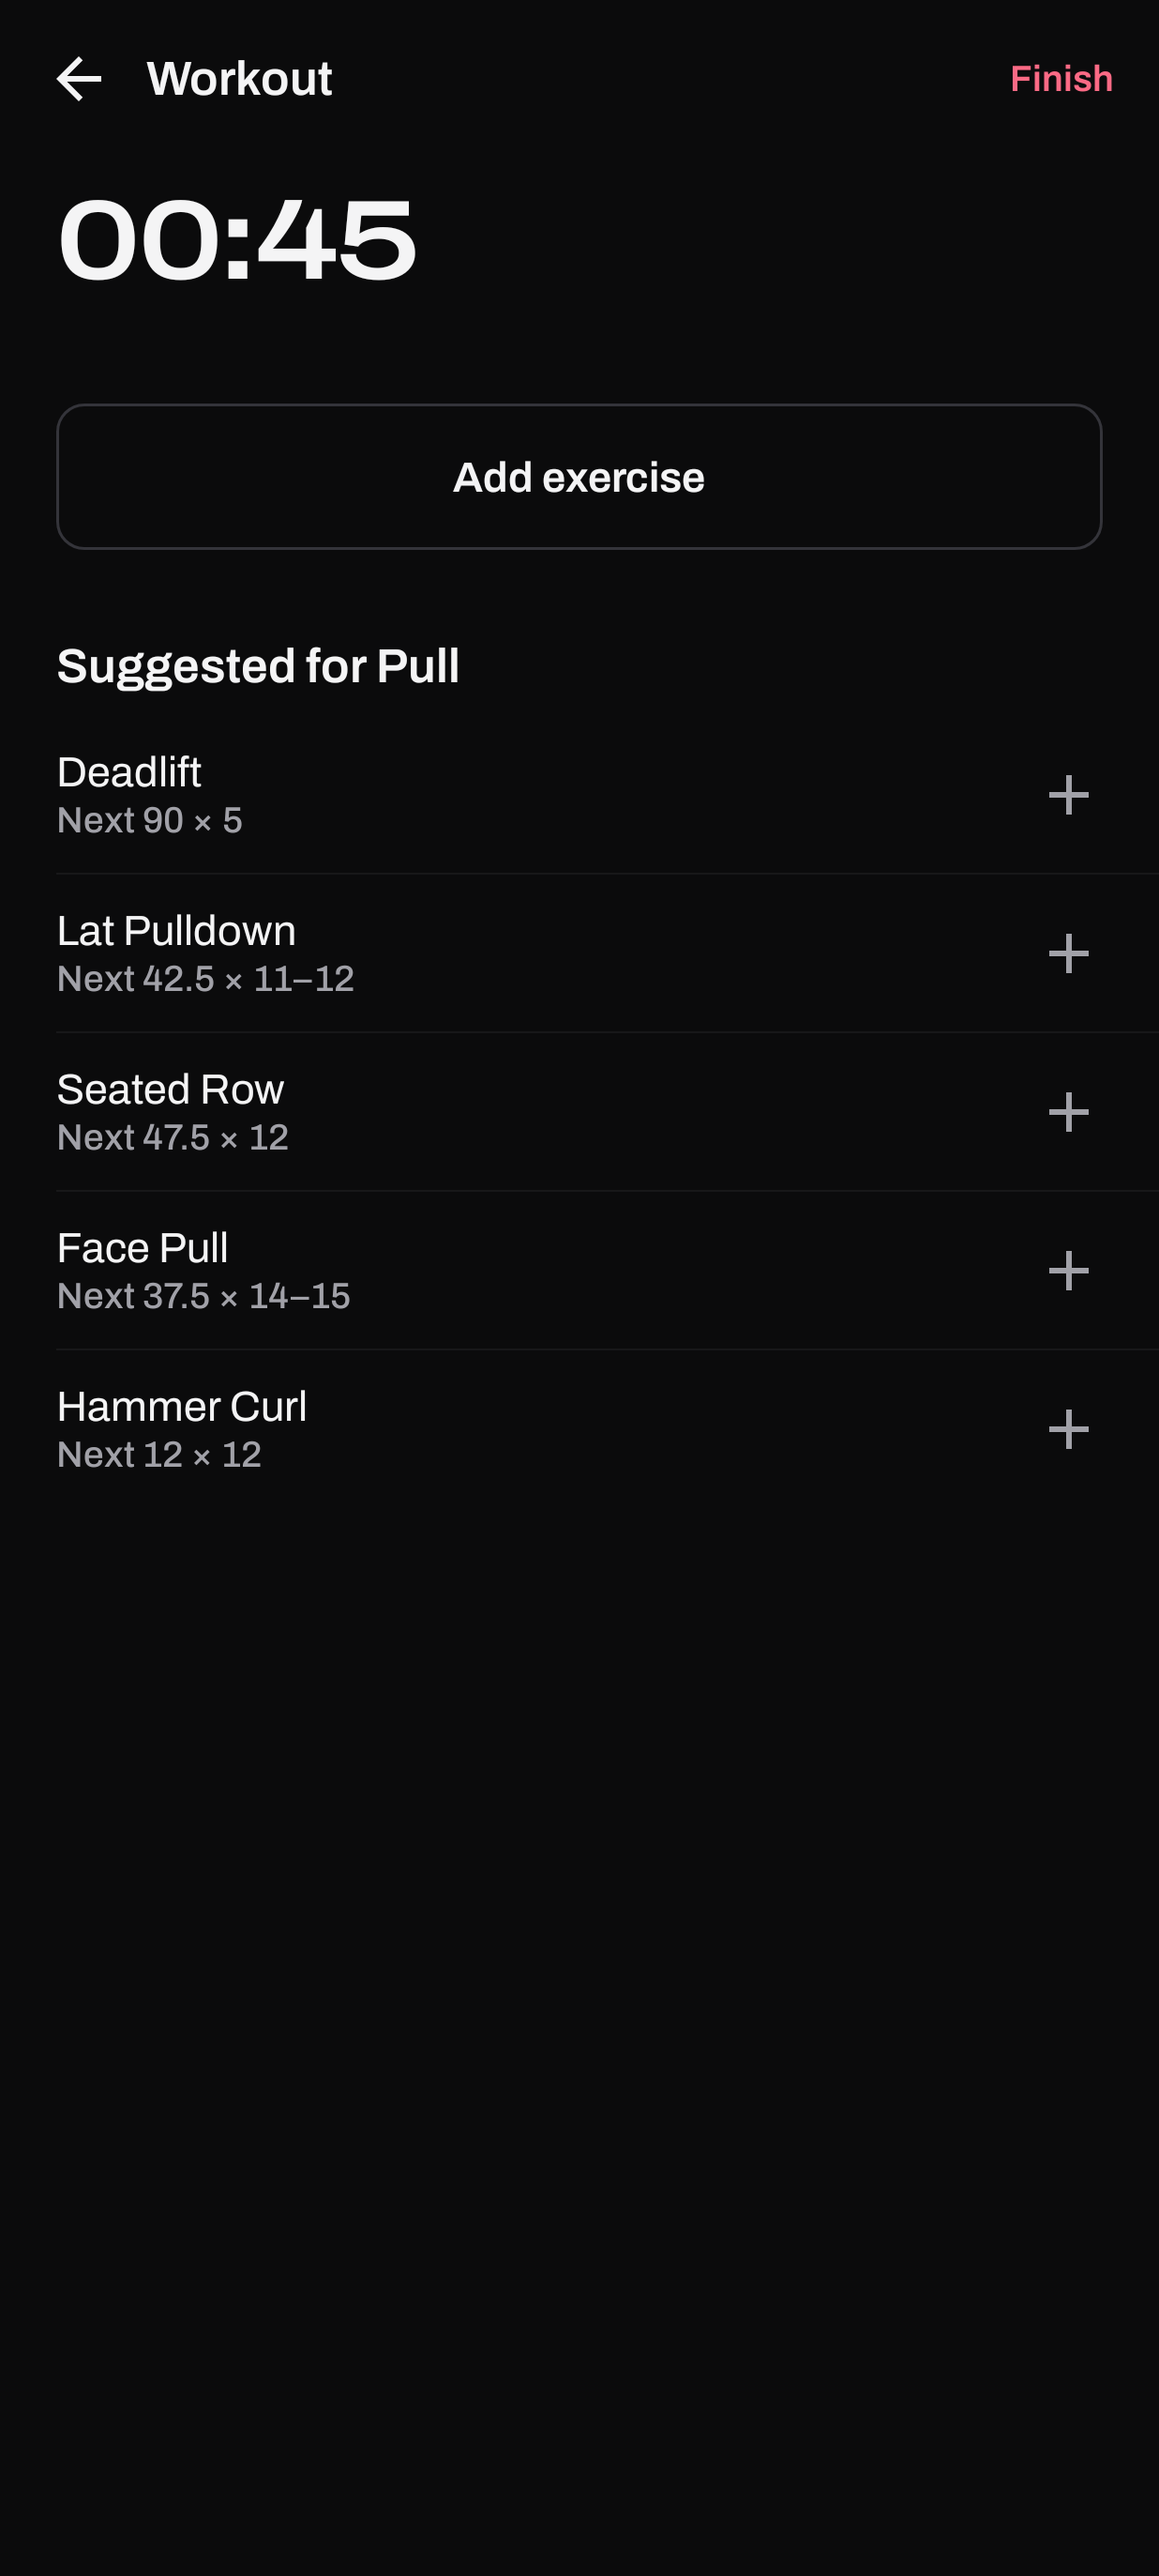
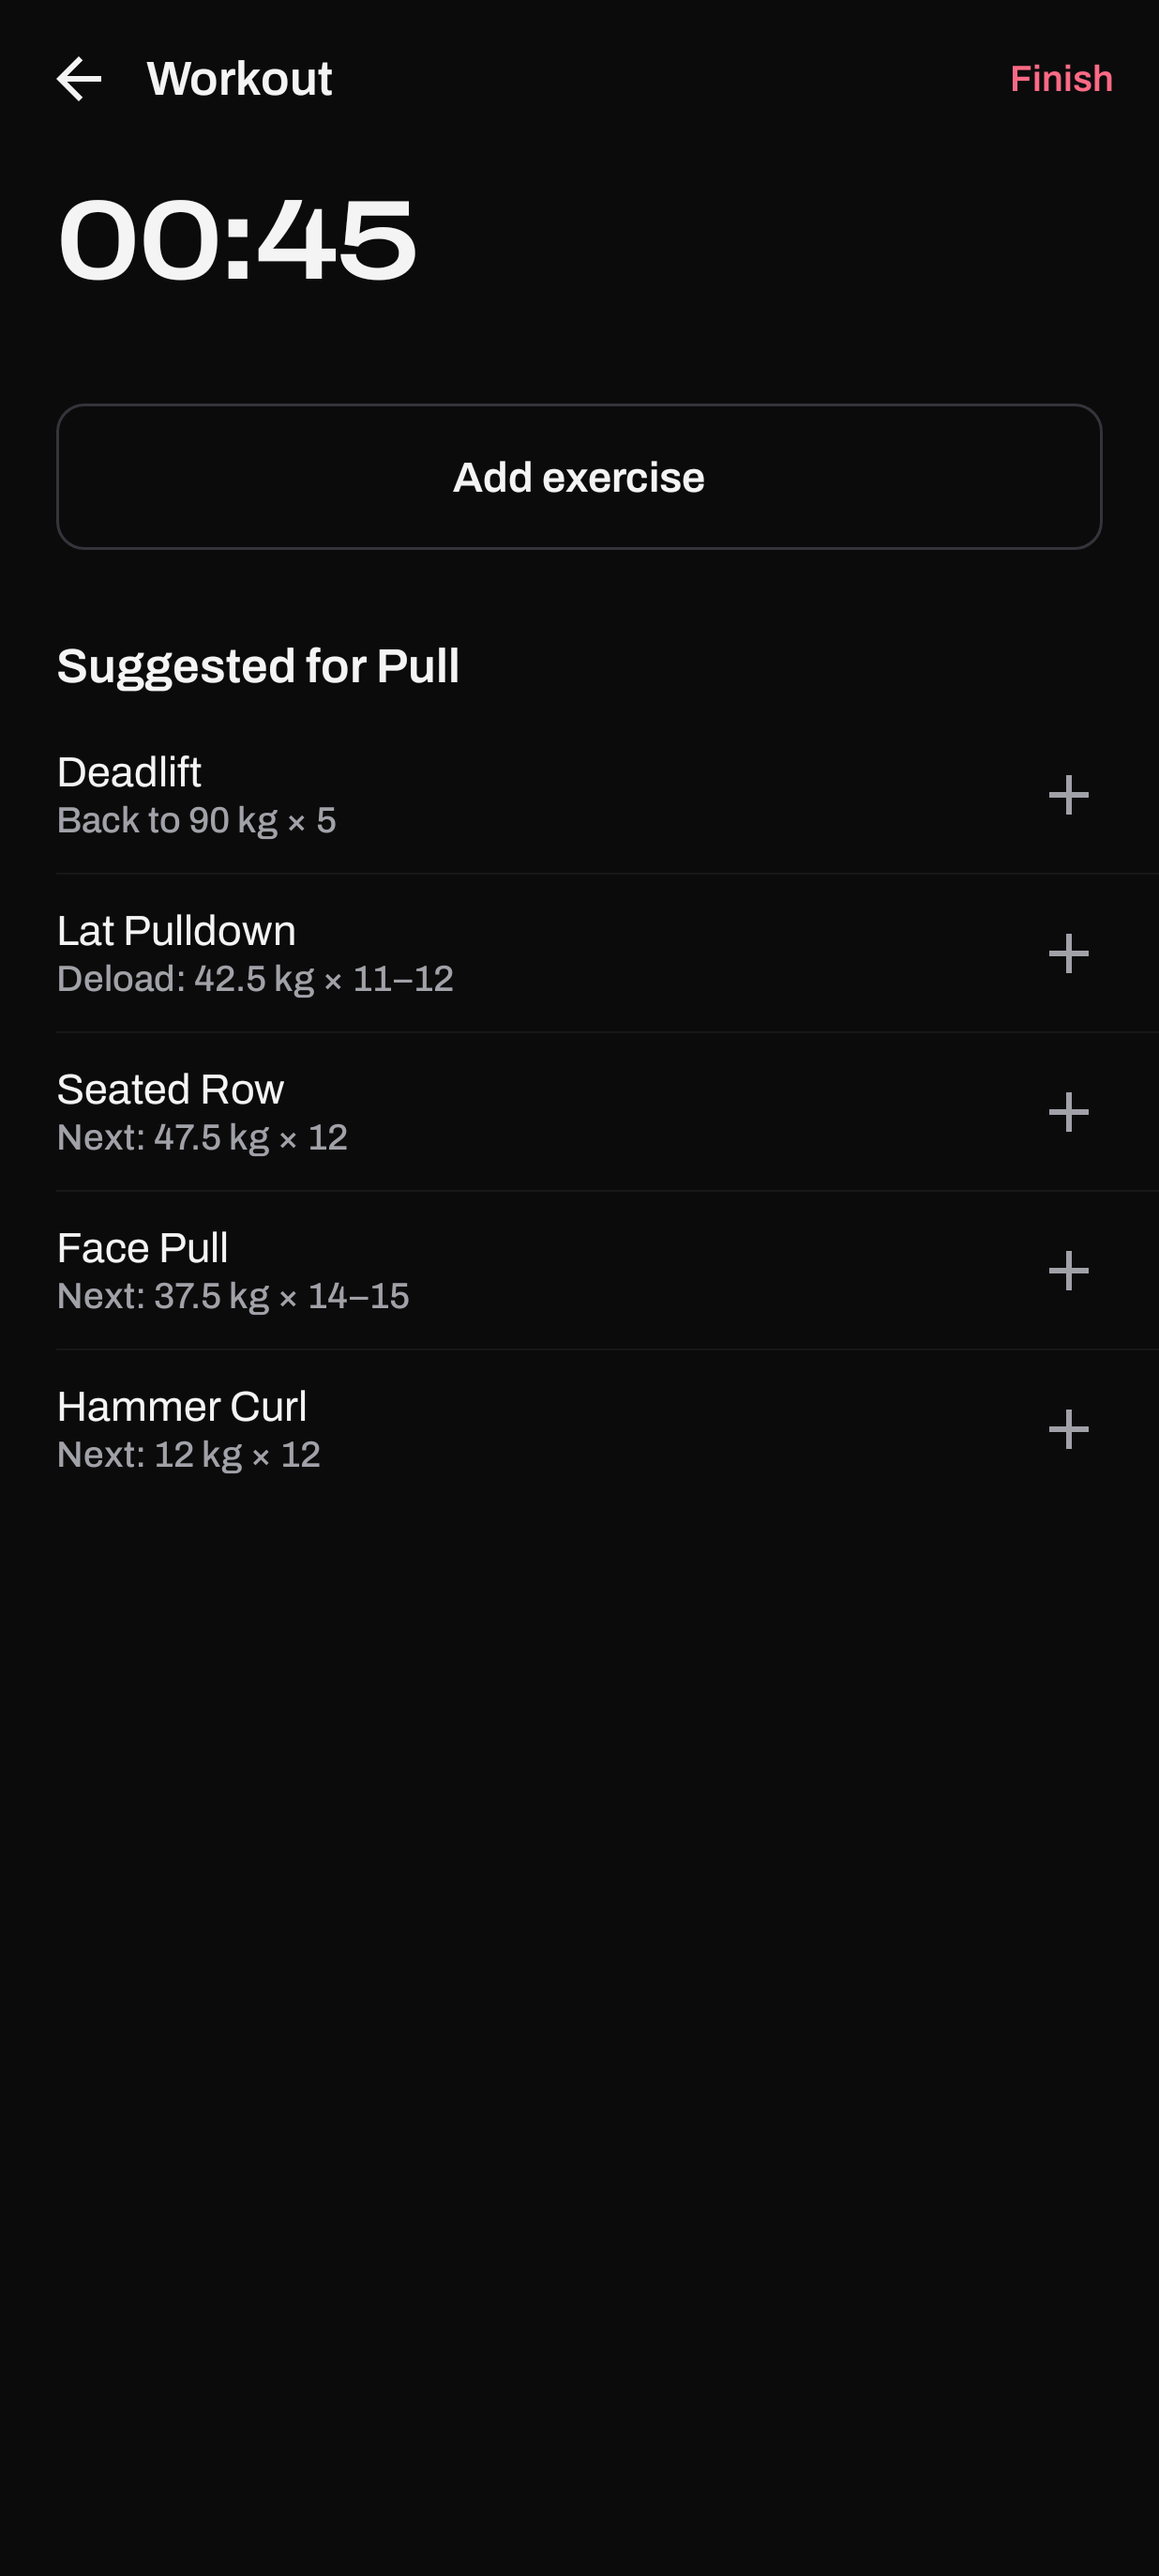
Parity report and final critique pass
- Parity 99.7 (34/34 must-haves); verdict shippable, pending the
  device-only checks
- One shared next-action wording (InsightPresenter.nextAction) on Home,
  Progress and the workout's Up next list
- Exercise detail "heaviest" shows the best set at that weight
- History rest lines only for breaks of 2+ days
- "All insights" link renamed to "Progress"
- Feature matrix: deliberate removals marked skip with reasons;
  lifetime stats honestly partial; CSV quoting fixed

diff --git a/app/src/main/java/com/example/gymdiary3/presentation/insight/InsightPresenter.kt b/app/src/main/java/com/example/gymdiary3/presentation/insight/InsightPresenter.kt
@@ -29,15 +29,26 @@ object InsightPresenter {
     /** Only exercises trained this recently produce insights. */
     const val RECENT_DAYS = 21
 
+    /**
+     * What to do next session, worded the same on every screen: "Next: 50 kg × 8",
+     * "Deload: 42.5 kg × 11–12", "Back to 90 kg × 5". Always a set the lifter can
+     * perform, never an instruction to calculate.
+     */
+    fun nextAction(p: ExerciseProgression, unit: String): String? {
+        val c = p.latest ?: return null
+        val rec = p.recommendation ?: return null
+        val target = if (rec.weightKg > 0) "${Fmt.weightUnit(rec.weightKg, unit)} × ${rec.repsLabel}" else "${rec.repsLabel} reps"
+        return when {
+            p.status == ProgressionStatus.REGRESSING -> "Back to $target"
+            p.status == ProgressionStatus.STALLING && rec.weightKg > 0 && rec.weightKg < c.topWeight -> "Deload: $target"
+            else -> "Next: $target"
+        }
+    }
+
     fun fromProgression(p: ExerciseProgression, unit: String): InsightRow? {
         val c = p.latest ?: return null
         val b = p.previous
-        val rec = p.recommendation
-        // Every action is a set the lifter can perform, never an instruction to calculate.
-        val target = rec?.let {
-            if (it.weightKg > 0) "${Fmt.weightUnit(it.weightKg, unit)} × ${it.repsLabel}" else "${it.repsLabel} reps"
-        }
-        val next = target?.let { "Next: $it" }
+        val next = nextAction(p, unit)
         val w = Fmt.weightUnit(c.topWeight, unit)
         return when (p.status) {
             ProgressionStatus.NEW -> null
@@ -55,15 +66,13 @@ object InsightPresenter {
                 InsightRow(
                     "Stalling", Tone.WARNING, p.exercise,
                     "$w · ${sessions(p.streakAtWeight)}",
-                    if (rec != null && rec.weightKg > 0 && rec.weightKg < c.topWeight) "Deload: $target" else next,
-                    p.exercise, 80 + p.streakAtWeight
+                    next, p.exercise, 80 + p.streakAtWeight
                 )
             ProgressionStatus.REGRESSING ->
                 InsightRow(
                     "Regressing", Tone.DANGER, p.exercise,
                     if (b != null) "${Fmt.weight(b.topWeight, unit)} → $w" else w,
-                    target?.let { "Back to $it" },
-                    p.exercise, 75
+                    next, p.exercise, 75
                 )
         }
     }

diff --git a/app/src/main/java/com/example/gymdiary3/presentation/workout/WorkoutStates.kt b/app/src/main/java/com/example/gymdiary3/presentation/workout/WorkoutStates.kt
@@ -11,6 +11,7 @@ import com.example.gymdiary3.domain.progression.ProgressionStatus
 import com.example.gymdiary3.domain.recovery.RecoveryEngine
 import com.example.gymdiary3.presentation.common.TrainingCalendar
 import com.example.gymdiary3.presentation.format.Fmt
+import com.example.gymdiary3.presentation.insight.InsightPresenter
 
 /* ======================================================= active workout */
 
@@ -71,12 +72,9 @@ object ActiveWorkoutStateBuilder {
                 .take(MAX_UP_NEXT)
                 .map { (name, muscle) ->
                     val p = ProgressionEngine.analyze(name, historySets.filter { it.exercise == name }, unit)
-                    val rec = p.recommendation
-                    val detail = when {
-                        rec != null && rec.weightKg > 0 -> "Next ${Fmt.weight(rec.weightKg, unit)} × ${rec.repsLabel}"
-                        p.latest != null -> "Last ${Fmt.set(p.latest!!.topWeight, p.latest!!.topReps, unit)}"
-                        else -> muscle
-                    }
+                    val detail = InsightPresenter.nextAction(p, unit)
+                        ?: p.latest?.let { "Last ${Fmt.set(it.topWeight, it.topReps, unit)}" }
+                        ?: muscle
                     UpNextRow(name, muscle, detail)
                 }
         }

diff --git a/app/src/main/java/com/example/gymdiary3/presentation/exercise/ExerciseDetailState.kt b/app/src/main/java/com/example/gymdiary3/presentation/exercise/ExerciseDetailState.kt
@@ -55,7 +55,8 @@ object ExerciseDetailStateBuilder {
 
     fun build(exercise: String, sets: List<WorkoutSet>, unit: String, now: Long): ExerciseDetailUiState {
         val p = ProgressionEngine.analyze(exercise, sets, unit)
-        val heaviest = p.sessions.maxByOrNull { it.topWeight }
+        // The best set at the heaviest weight (47.5 × 9), not the first time it was lifted (47.5 × 6).
+        val heaviest = p.sessions.maxWithOrNull(compareBy({ it.topWeight }, { it.topReps }))
         val latest = p.latest
         val dateFmt = SimpleDateFormat("MMM d", Locale.getDefault())
 

diff --git a/app/src/main/java/com/example/gymdiary3/presentation/history/HistoryState.kt b/app/src/main/java/com/example/gymdiary3/presentation/history/HistoryState.kt
@@ -72,7 +72,8 @@ object HistoryStateBuilder {
                 val older = list.getOrNull(i + 1)
                 if (older != null) {
                     val gap = TrainingCalendar.daysBetween(older.session.startTime, s.session.startTime) - 1
-                    if (gap >= 1) entries += RestEntry(gap, s.session.id)
+                    // One rest day is the normal rhythm; only a longer break earns a line.
+                    if (gap >= 2) entries += RestEntry(gap, s.session.id)
                 }
             }
             val volume = list.sumOf { it.totalVolume }

diff --git a/app/src/main/java/com/example/gymdiary3/screens/HomeScreen.kt b/app/src/main/java/com/example/gymdiary3/screens/HomeScreen.kt
@@ -119,7 +119,7 @@ fun HomeScreen(
 
             state.insight?.let { insight ->
                 item(key = "insight") {
-                    SectionHeader("Worth knowing", action = "All insights", onAction = actions.onAllInsights)
+                    SectionHeader("Worth knowing", action = "Progress", onAction = actions.onAllInsights)
                     InsightItem(insight, onClick = { actions.onOpenInsight(insight) })
                 }
             }

diff --git a/replica/parity.md b/replica/parity.md
@@ -1,0 +1,72 @@
+# Parity — Gym Diary v2 against v1
+
+Date: 2026-10-04. "The original" here is Gym Diary v1, the same app before this redesign. The question is: can a user still do everything they could, and is each flow at least as good?
+
+## Verdict: shippable
+
+- All 34 must-haves done. Feature score **99.7** (97.7 if the three deliberately removed motion effects count as missing).
+- No open S1 or S2 bugs (`bugs.md`: 8 found, all fixed or mitigated).
+- 163 JVM tests green.
+- **The caveat that matters**: no device was available. The 7 device-only checks in `test-plan.md` (share sheet, file picker, haptics, TalkBack, system insets) have **not** been run. Until they are, "shippable" means shippable on the evidence a JVM can give.
+
+Not "better than the original" by the skill's definition, which requires replica-entrepreneur's fixes from user reviews. That step wasn't run; the improvement agenda came from your own brief.
+
+## Feature parity
+
+| | |
+| --- | --- |
+| Score | 99.7 / 100 (60 features counted) |
+| Must-haves | 34 of 34 |
+| Weakest area | home 96.4: lifetime volume dropped (workout count kept as the History header) |
+| Removed on purpose, not scored | ambient animated background, confetti, staggered list entrances (the brief rules out decorative motion) |
+| Added in v2, not scored | 20 features: progression status, labelled charts with ranges, tap-to-inspect, recovery + today's recommendation, month timeline, PR list, active workout screen, rest ±15 s, tablet width cap, … |
+
+Full machine output: `python parity.py replica/features.csv --markdown`.
+
+## Layout diff: not measured
+
+The skill's layout score compares the clone's screenshots with the original's at the same viewport. Two reasons it isn't run:
+- **No captures**: v1 was mapped from its code, so no v1 screenshots exist.
+- **Wrong question**: the brief asked for a new layout (fewer cards, less text, a different information architecture). A high layout match with v1 would measure failure.
+
+The clone's renders are in `replica/clone-screens/`, named by stable recon ID: S01–S13, plus the R_* responsive and edge renders.
+
+## Behaviour diff
+
+| flow | v1 does | v2 does | keep / fix |
+| --- | --- | --- | --- |
+| F01 first logged set | 6 taps: Start → "Start now" → Resume → muscle → exercise → Log | 3 taps via Up next (Start → exercise → Log), 4 via the picker | keep |
+| F01 each further exercise | +2 screens (muscle, then exercise) | 1 tap on an Up next row, or 1 picker screen | keep |
+| F01 what to lift | a weight-only bump | double progression within the lift's rep range; deload or "back to" when stalled/regressing; "PR today" once beaten | keep |
+| F01 double tap on Log | logged twice | logs once | fixed (BUG-005) |
+| F02 exercise progress | Progress → scroll to that lift's card → analytics; unlabelled charts, no range | Progress → lift row (1 tap); axes, units, dates, 4W–All, Strength/Volume/Reps, tap a point | keep |
+| F03 review a session | History → session (2 taps) | same | keep |
+| F04 delete a weigh-in | swipe | long-press, then confirm (same gesture as sets and sessions) | keep. Note: less discoverable than swipe |
+| F05 programs | tracker → day → log | same, plus an Up next row with Start; rest days can't be planned; no duplicate plans | keep |
+| F06 restore | aborted halfway on an unknown value | decodes first, never writes partially, unknown values fall back | fixed (BUG-004) |
+| F06 export CSV | kg values under a lbs header; decimal comma split columns | values in your unit, locale-safe, sets in order | fixed (BUG-001–003) |
+| F08 delete set / session | long-press | long-press, then confirm | keep |
+
+## Final visual critique (P14)
+
+Checked every screen for AI-dashboard patterns, excess containers, accent misuse and redundant text.
+
+**Already clean**: no gradients, glows, emoji, sparkle icons, stacked insight cards or count-up numbers. Home has exactly one container (Today). Accent appears only on the primary action, the active tab/underline, PRs, the running rest timer, and a selected chart point.
+
+**Removed in this pass**
+- "1 rest day" between almost every History session. A one-day rest is the rhythm; only breaks of 2+ days get a line now.
+- The Settings footer ("Gym Diary") and the "Save everything" claim on Back up, which was untrue (programs aren't backed up).
+- "All insights" (dashboard jargon) → "Progress", where the link actually goes.
+
+**Corrected**
+- One wording for next actions on every screen: "Next: 50 kg × 8", "Deload: 42.5 kg × 11–12", "Back to 90 kg × 5". The workout screen had its own unit-less variant that contradicted Home.
+- "heaviest 47.5 kg × 6" next to "last session 47.5 × 9" looked like an error. It now shows the best set at the heaviest weight.
+- The logger said "Stalling, deload" above a PR set today; it now says PR today.
+
+## Next five things to build
+
+1. **Run the APK on a phone** and do the 7 manual cases (`test-plan.md`, all "not run"). This is the largest remaining risk.
+2. **Programs and settings in backups** (BUG-008 follow-up): optional fields, so older backups still load.
+3. **Edit a logged set in place.** Delete and re-log works today, but it's two steps for a typo (build-log S04).
+4. **Automated test for "start a planned day"** (`ProgramViewModel.logScheduledSession`), currently verified by reading only.
+5. **Body weight "once a day" on a 25-hour DST day** (to-check list): inject the clock into `BodyViewModel` and test it.

diff --git a/replica/build-log.md b/replica/build-log.md
@@ -10,7 +10,7 @@ Screenshots: `replica/clone-screens/` (rendered by the Roborazzi tests in `app/s
 | S03 Picker (replaces S02 + S03) | 2026-10-04 | done | — | Library and history disagree after imports; picker lists the union |
 | S13 Active workout (new) | 2026-10-04 | done | — | "Up next" needs the split the session is turning into, not only today's recommendation |
 | S04 Logger | 2026-10-04 | done | Edit a logged set in place (delete + re-log works) | Pre-fill mixed today's weight with the plan's reps; a deload target showed "met" |
-| S05 History | 2026-10-04 | done | — | Month timeline needs calendar-day gaps (not 24h blocks) for the "N rest days" lines between sessions |
+| S05 History | 2026-10-04 | done | — | Month timeline needs calendar-day gaps (not 24h blocks); P14 critique: a line only for breaks of 2+ days, since "1 rest day" on every other row was noise |
 | S06 Summary | 2026-10-04 | done | — | e1RM PRs fired on most sessions; PR redefined as a new heaviest weight |
 | S07 Progress | 2026-10-04 | done | — | Colour noise from status colours on every row; status moved to a single overline |
 | S08 Exercise detail | 2026-10-04 | done | — | Date ticks ran past "now"; minimum y-span needed so a flat lift does not look like a cliff |
